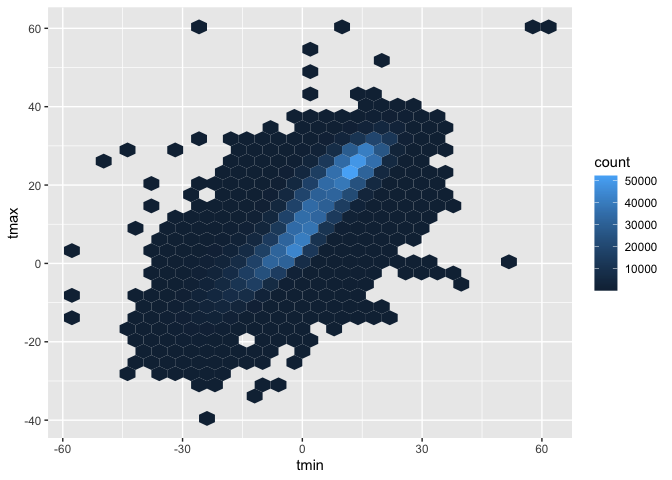
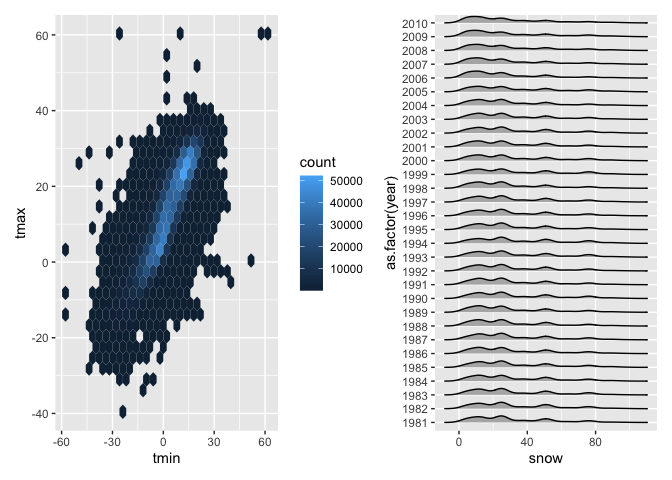
hex and ridge plot

diff --git a/HW3_2.md b/HW3_2.md
@@ -136,17 +136,28 @@ max temperature in July across all years. There does not appear to be
 too much of an outlier.
 
 Make a two-panel plot showing (i) tmax vs tmin for the full dataset
-(note that a scatterplot may not be the best option)
+(note that a scatterplot may not be the best option). Make a plot
+showing the distribution of snowfall values greater than 0 and less than
+100 separately by year.
 
 ``` r
-ggplot(ny_noaa_cleaned, aes(x = tmin, y = tmax)) + 
-  geom_hex()
+tmax_tmin = 
+  ny_noaa_cleaned |>
+ggplot(aes(x = tmin, y = tmax)) + 
+  geom_hex() 
+
+snowfall_dist = 
+  ny_noaa_cleaned |>
+  filter(snow < 100, snow > 0) |>
+  ggplot(aes(x = snow, y = as.factor(year))) + 
+  geom_density_ridges(scale = 0.5)
+
+tmax_tmin + snowfall_dist
 ```
 
     ## Warning: Removed 1136276 rows containing non-finite outside the scale range
     ## (`stat_binhex()`).
 
-![](HW3_2_files/figure-gfm/unnamed-chunk-7-1.png)<!-- -->
+    ## Picking joint bandwidth of 3.76
 
-Make a plot showing the distribution of snowfall values greater than 0
-and less than 100 separately by year.
+![](HW3_2_files/figure-gfm/unnamed-chunk-7-1.png)<!-- -->
